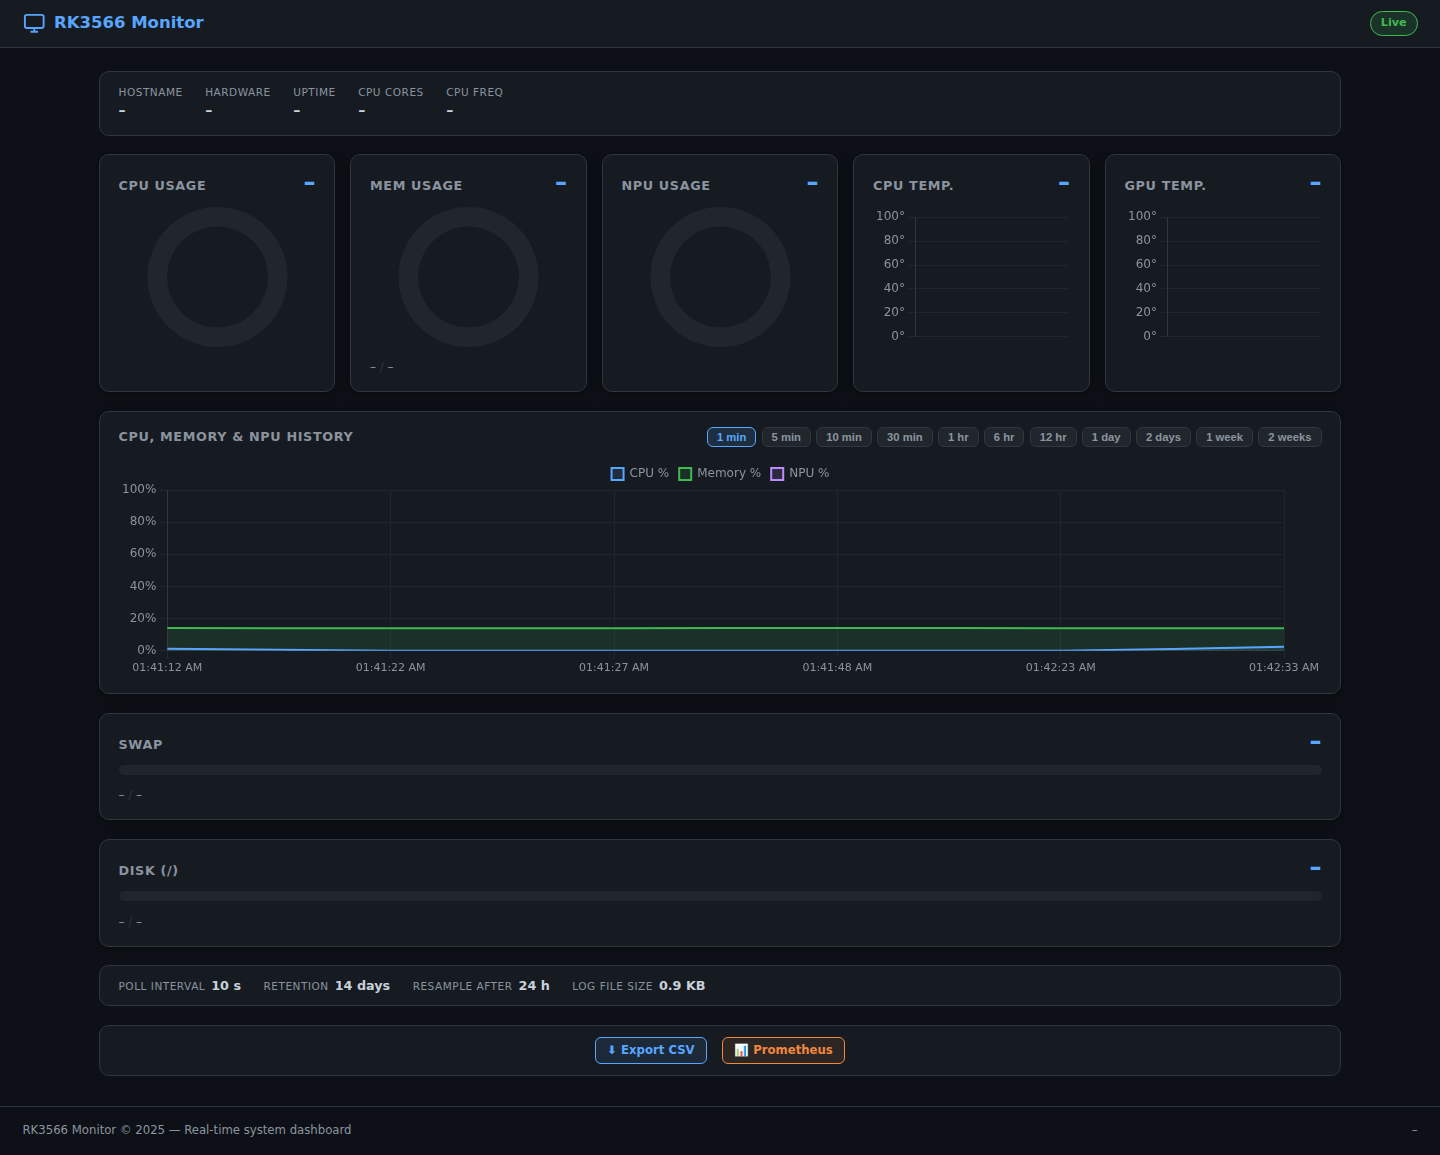
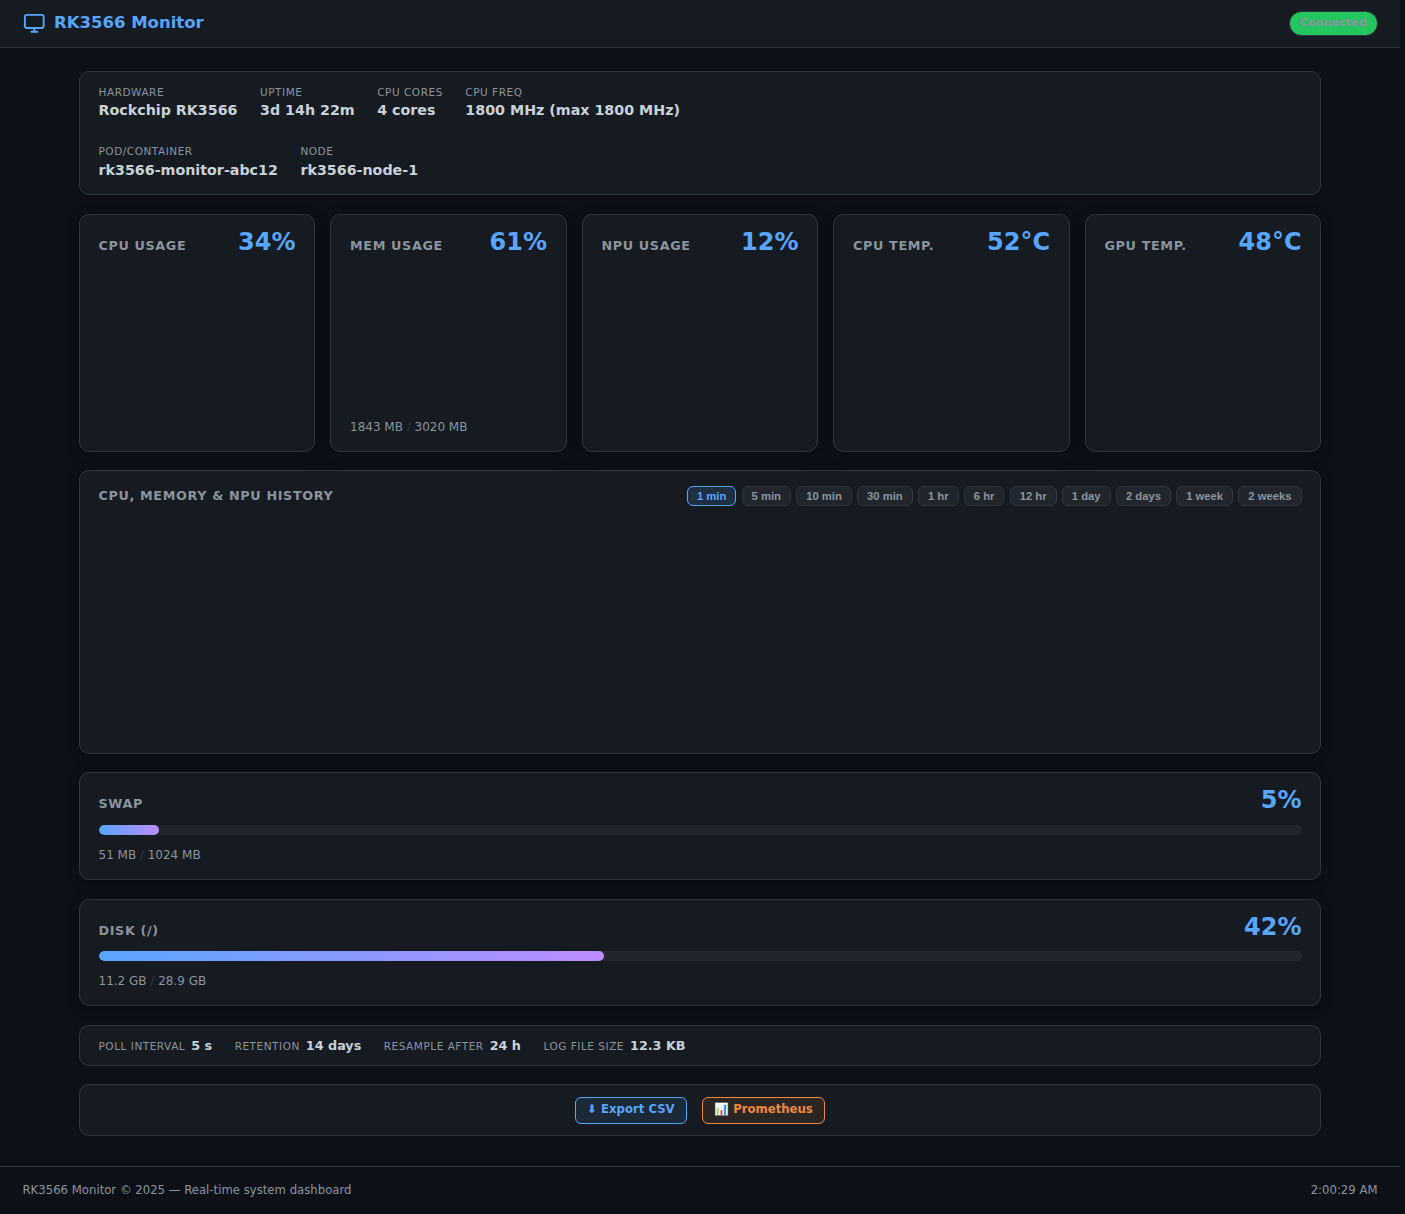
Rename HOSTNAME to POD/CONTAINER, add NODE field, update screenshot
Agent-Logs-Url: https://github.com/masterlog80/rk3566-monitor-copilot/sessions/8c7440ef-7bfc-42d1-88ed-e029d7ab8989

diff --git a/static/script.js b/static/script.js
@@ -29,7 +29,8 @@ const history = {
 // ── DOM refs ─────────────────────────────────────────────────────────────
 const $ = id => document.getElementById(id);
 const connStatus   = $("conn-status");
-const elInfoHostname = $("info-hostname");
+const elInfoPod      = $("info-pod");
+const elInfoNode     = $("info-node");
 const elHwModel    = $("hw-model");
 const elUptime     = $("uptime");
 const elCpuCount   = $("cpu-count");
@@ -374,7 +375,8 @@ function render(data) {
   const { cpu, memory, disk, npu, gpu, system, timestamp } = data;
 
   // Info bar
-  elInfoHostname.textContent = system.hostname || "–";
+  elInfoPod.textContent  = system.pod  || "–";
+  elInfoNode.textContent = system.node || "–";
   elHwModel.textContent   = system.hardware || "–";
   elUptime.textContent    = system.uptime_human || "–";
   elCpuCount.textContent  = cpu.count != null ? cpu.count + " cores" : "–";

diff --git a/templates/index.html b/templates/index.html
@@ -33,10 +33,6 @@
     <!-- System Info Bar -->
     <section class="info-bar">
       <div class="info-item">
-        <span class="info-label">Hostname</span>
-        <span class="info-value" id="info-hostname">–</span>
-      </div>
-      <div class="info-item">
         <span class="info-label">Hardware</span>
         <span class="info-value" id="hw-model">–</span>
       </div>
@@ -51,6 +47,15 @@
       <div class="info-item">
         <span class="info-label">CPU Freq</span>
         <span class="info-value" id="cpu-freq">–</span>
+      </div>
+      <div class="info-break"></div>
+      <div class="info-item">
+        <span class="info-label">POD/CONTAINER</span>
+        <span class="info-value" id="info-pod">–</span>
+      </div>
+      <div class="info-item">
+        <span class="info-label">NODE</span>
+        <span class="info-value" id="info-node">–</span>
       </div>
     </section>
 

diff --git a/static/styles.css b/static/styles.css
@@ -114,6 +114,11 @@ html, body {
   padding: .85rem 1.25rem;
 }
 
+.info-break {
+  flex-basis: 100%;
+  height: 0;
+}
+
 .info-item {
   display: flex;
   flex-direction: column;

diff --git a/app.py b/app.py
@@ -445,7 +445,8 @@ def collect_metrics() -> dict:
             "uptime_seconds": uptime_sec,
             "uptime_human": _format_uptime(uptime_sec),
             "hardware": hw_model,
-            "hostname": _read_proc_file("/proc/sys/kernel/hostname", "unknown"),
+            "pod": _read_proc_file("/proc/sys/kernel/hostname", "unknown"),
+            "node": _read_proc_file("/etc/hostname", "unknown"),
             "os_release": _read_proc_file("/proc/version", "N/A").split(" ", 3)[:3],
         },
         "timestamp": int(time.time()),
@@ -613,7 +614,8 @@ def api_metrics_csv():
         # NPU
         writer.writerow(["npu_percent", data["npu"]["percent"], "%"])
         # System
-        writer.writerow(["hostname", data["system"]["hostname"], ""])
+        writer.writerow(["pod", data["system"]["pod"], ""])
+        writer.writerow(["node", data["system"]["node"], ""])
         writer.writerow(["hardware", data["system"]["hardware"], ""])
         writer.writerow(["uptime_seconds", data["system"]["uptime_seconds"], "s"])
         writer.writerow(["uptime_human", data["system"]["uptime_human"], ""])

diff --git a/README.md b/README.md
@@ -29,7 +29,7 @@ docker compose -f docker-compose.yml up -d --remove-orphans
 - **REST API** fallback with polling support
 - **Charts**: donut gauges for CPU / memory / NPU, line charts for CPU and GPU temperature history, combined history chart
 - **NPU monitoring**: real-time Neural Processing Unit utilisation via the `rknpu2` kernel driver
-- **System info**: hostname, hardware model, uptime, CPU frequency
+- **System info**: pod/container name, node hostname, hardware model, uptime, CPU frequency
 - **CSV export**: one-click download of a full metrics snapshot as a `.csv` file
 - **Local metrics log**: graph values (CPU%, memory%, temperature, NPU%) are automatically appended to a local CSV file at each poll interval, with automatic pruning and resampling
 - **Prometheus metrics**: a `/metrics` endpoint exposes all system metrics in Prometheus text format for scraping by Prometheus, Grafana, or any OpenMetrics-compatible tool
@@ -106,7 +106,8 @@ The file contains the following fields:
 | `disk2_total_gb`     | GB      | Secondary disk total space (only when `DISK2_MOUNTPOINT` is set) |
 | `disk2_free_gb`      | GB      | Secondary disk free space (only when `DISK2_MOUNTPOINT` is set) |
 | `npu_percent`        | %       | NPU utilisation (if available)|
-| `hostname`           |         | System hostname               |
+| `pod`                |         | Pod / container name          |
+| `node`               |         | Node hostname                 |
 | `hardware`           |         | Hardware / CPU model          |
 | `uptime_seconds`     | s       | Uptime in seconds             |
 | `uptime_human`       |         | Human-readable uptime         |
